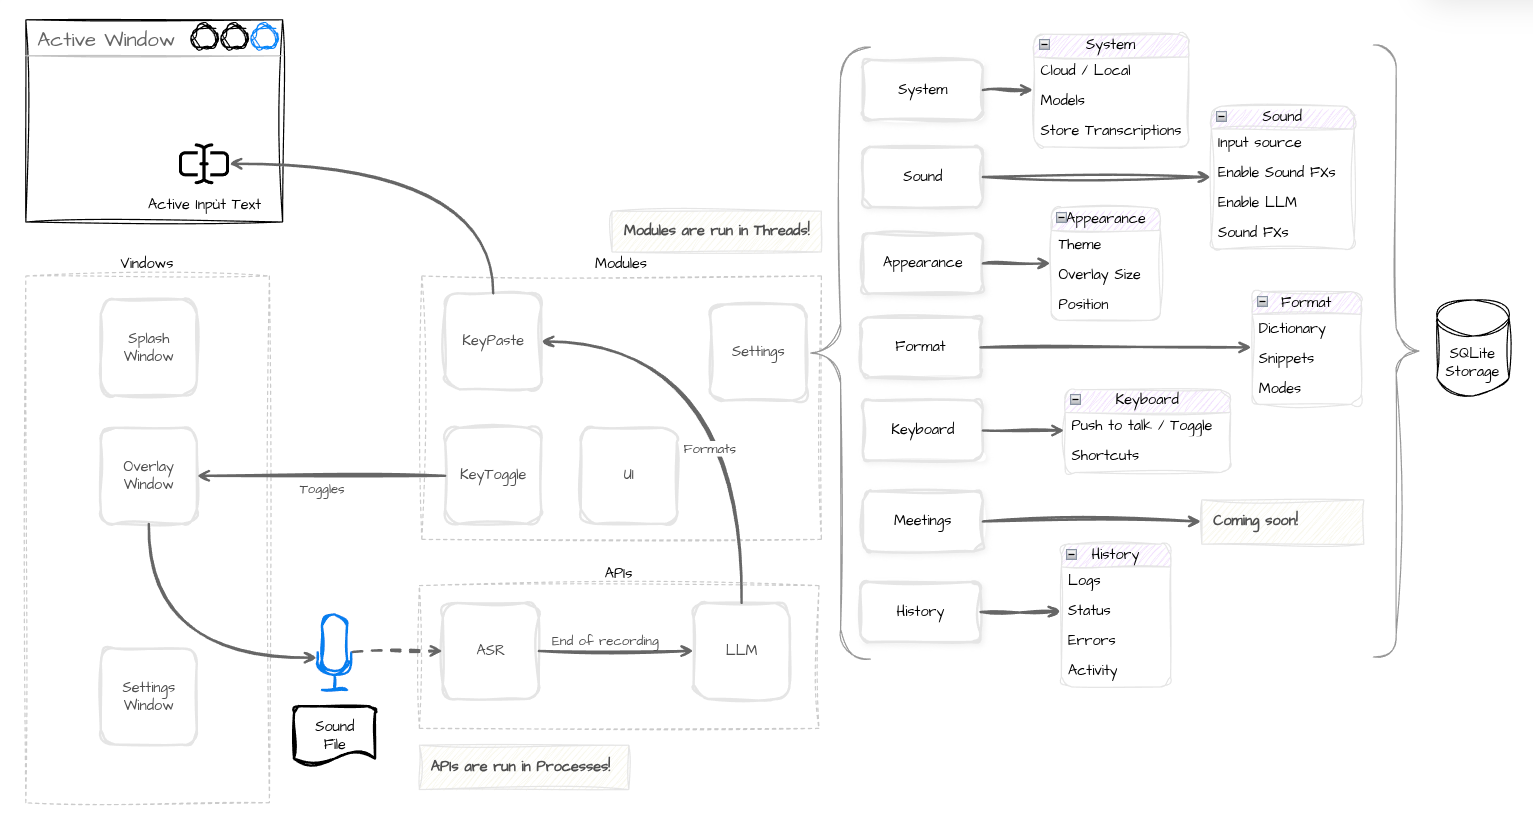
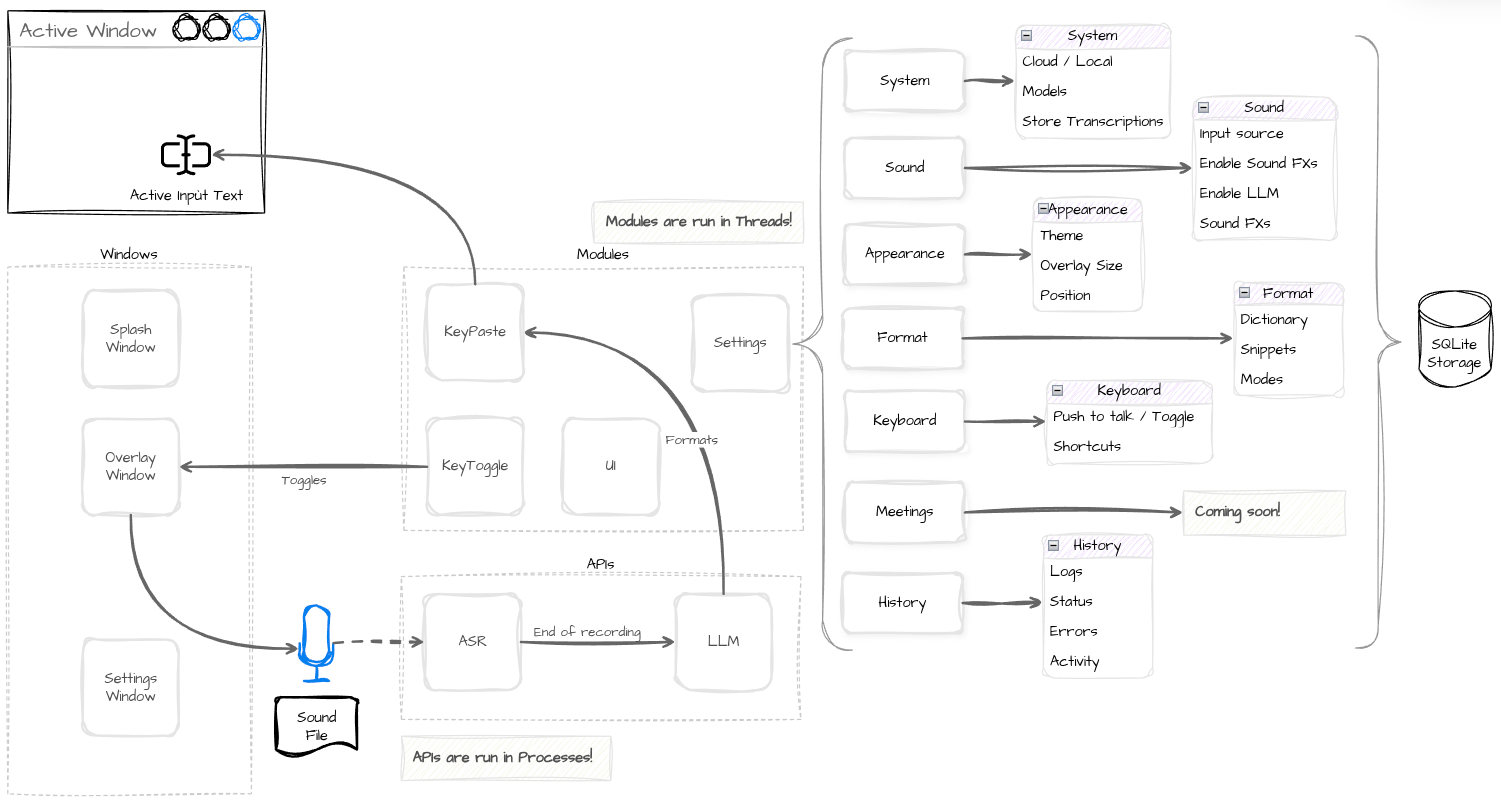
fix: update README.md according to current implementation

diff --git a/README.md b/README.md
@@ -6,135 +6,133 @@
   <img src="src/assets/icons/title.svg" alt="Gladys" height="72">
 </p>
 
+<p align="center">
+  <img src="https://img.shields.io/badge/license-GPLv3-blue" alt="License: GPLv3">
+  <img src="https://img.shields.io/badge/Qt-6.8%2B-41CD52" alt="Qt 6.8+">
+  <img src="https://img.shields.io/badge/C%2B%2B-17-00599C" alt="C++17">
+  <img src="https://img.shields.io/badge/platform-Linux%20%7C%20Windows%20%7C%20macOS-lightgrey" alt="Linux | Windows | macOS">
+</p>
+
 **Fully local, cross-platform dictation tool.**  
 Speak, and your words appear where you need them — no cloud, no API keys, no AI agent services.
 
-Gladys runs entirely on your machine using [sherpa-onnx](https://github.com/k2-fsa/sherpa-onnx) for speech-to-text and [llama.cpp](https://github.com/ggml-org/llama.cpp) for local transcription formatting. It works on **Windows** and **Linux** (Vulkan GPU support, any vendor). **macOS** is in progress.
+Gladys runs entirely on your machine using [sherpa-onnx](https://github.com/k2-fsa/sherpa-onnx) for speech-to-text and [llama.cpp](https://github.com/ggml-org/llama.cpp) for local transcription formatting. It runs on **Windows**, **Linux** and **macOS** (Vulkan GPU support on Windows and Linux, any vendor).
 
 ---
 
-## Supported platforms
+# Product
 
-| Platform | Architecture | Build host |
-|---|---|---|
-| Linux | x64 | Linux x86_64 |
-| Windows | x64 | Windows x86_64 |
-| macOS | arm64 | Apple Silicon (Intel host can build, cannot run) |
+### Features
 
----
-
-## Features
-
-| Feature | Description |
-|---|---|
-| 100% local | No remote API calls, no data leaves your machine |
-| Direct paste | Text is copied and pasted into the focused input (chat, search, editors) |
-| Global hotkey | Toggles recording on/off from any application |
-| Microphone selection | Choose the capture device in Settings |
-| Dictionary | Word replacements applied during formatting (e.g. `gladys` → `Gladys`) |
-| Style options | Markdown mode, allow accents, allow punctuation |
+| Feature              | Description                                                                          |
+| -------------------- | ------------------------------------------------------------------------------------ |
+| 100% local           | No remote API calls, no data leaves your machine                                     |
+| Direct paste         | Text is copied and pasted into the focused input                                     |
+| Global hotkey        | Toggle or Hold to record from any application. Profiles: `Ctrl+Alt+P`, `Fn`, `AltGr` |
+| Microphone selection | Choose the capture device in Settings                                                |
+| Dictionary           | Word replacements applied during formatting (e.g. `gladys` → `Gladys`)               |
+| Style options        | Markdown mode, allow accents, allow punctuation                                      |
 
 ---
 
-## How it works
+### Architecture
+
+![Architecture](src/assets/Architecture.png)
+
+---
+
+### Usage
 
 ```txt
- ┌──────────┐  hotkey  ┌───────────────┐  final text  ┌──────────────────┐
- │ Hotkey   │ ───────► │ STT           │ ───────────► │ LLM (llama-server)│
- │ toggle   │          │ miniaudio +   │              │ 127.0.0.1:26001  │
- └──────────┘          │ sherpa-onnx   │              └────────┬─────────┘
-                       └───────┬───────┘                       │ formatted text
-                               │ audio levels                  ▼
-                       ┌───────▼───────┐              ┌──────────────────┐
-                       │ Mic overlay   │              │ Paste            │
-                       │ (wave bars)   │              │ copy + Ctrl+Shift+V
-                       └───────────────┘              └──────────────────┘
+ Settings
+ ├── System      Store transcriptions
+ ├── Sound       Input source (microphone), sound effects
+ ├── Appearance  Theme, overlay size, position
+ ├── Format      Dictionary, snippets, modes, enable LLM
+ ├── Keyboard    Push to talk / toggle, shortcuts
+ └── History     Logs, status, errors, activity
 ```
 
-1. Press the hotkey — the mic overlay opens and audio is captured.
-2. Speech is buffered while recording and transcribed by sherpa-onnx on stop.
-3. On stop, the raw text is sent to the local `llama-server` for formatting (casing, punctuation, dictionary).
-4. The result is copied to the clipboard and pasted with `Ctrl+Shift+V` (plain text).
-
-If the LLM fails, the raw transcription is pasted, so no dictation is lost.
+1. Launch Gladys — a splash screen loads, then the tray icon appears.
+2. Press the hotkey (default `Ctrl+Alt+P`) to start recording.
+3. Speak; the overlay shows live audio levels.
+4. Press the hotkey again to stop. The formatted text is pasted automatically.
 
 ---
 
-## Hotkeys
+### Platform Security Notes
 
-| Platform | Toggle recording | Backend |
-|---|---|---|
-| Linux | `Ctrl+Alt+P` | X11 `XGrabKey` |
-| Windows | `Ctrl+Alt+P` | `SetWindowsHookEx` (low-level keyboard) |
-| macOS | `Ctrl+Option+P` | `CGEventTap` |
+Gladys listens to global keystrokes to detect the hotkey and injects keystrokes to paste. Both behaviours are similar to a keylogger, so this table lists exactly what is used under the hood.
 
----
+| Platform | Hotkey capture (keystrokes in)        | Paste injection (keystrokes out) | Clipboard                | Permissions                   |
+| -------- | ------------------------------------- | -------------------------------- | ------------------------ | ----------------------------- |
+| Linux    | evdev, reads `/dev/input/event*`      | `/dev/uinput` virtual keyboard   | `wl-copy` (wl-clipboard) | uinput access, `wl-clipboard` |
+| Windows  | `SetWindowsHookEx` (`WH_KEYBOARD_LL`) | `SendInput`                      | Qt `QClipboard`          | Run as Administrator          |
+| macOS    | `CGEventTap`                          | `CGEvent`                        | Qt `QClipboard`          | Accessibility permission      |
 
-## Platform notes
-
-| Platform | Clipboard | Paste backend | Extra setup |
-|---|---|---|---|
-| Linux | `wl-copy` | `/dev/uinput` virtual keyboard | `wl-clipboard`, uinput access |
-| Windows | Qt clipboard | `SendInput` | None |
-| macOS | Qt clipboard | `CGEvent` | Accessibility permission |
+- Audio is captured with [miniaudio](https://miniaud.io/) and transcribed locally. Nothing is sent over the network.
+- Transcription history is stored in plaintext in a local SQLite database (`history.db`).
+- Keystrokes are only used for the hotkey and the paste shortcut. Keystroke content is not logged.
 
 ---
 
-## Dependencies
-
-- [Qt 6.8+](https://www.qt.io/) — Core, Gui, Widgets, Network, Svg
-- [sherpa-onnx](https://github.com/k2-fsa/sherpa-onnx) — speech-to-text (bundled libs in `src/include/sherpa-onnx`)
-- [llama.cpp](https://github.com/ggml-org/llama.cpp) — local `llama-server` (fetched by script)
-- [miniaudio](https://miniaud.io/) — audio capture (single header, bundled)
-- [Vulkan](https://www.vulkan.org/) — GPU acceleration for llama.cpp (optional, recommended)
-- X11 development headers (Linux)
-- `wl-clipboard` (Linux runtime)
-
----
-
-## Models
-
-| Component | Model | Purpose |
-|---|---|---|
-| STT | `sherpa-onnx-nemo-parakeet-tdt-0.6b-v3-int8` | Multilingual offline speech recognition |
-| LLM | `Llama-3.2-1B-Instruct-Q4_K_M.gguf` | Transcription formatting |
-
----
-
-## Build from source
+# Build
 
 ### Prerequisites
 
-| Tool | Version |
-|---|---|
-| CMake | 3.21+ |
-| C++ compiler | C++17 |
-| Qt | 6.8+ |
+| Tool         | Version |
+| ------------ | ------- |
+| CMake        | 3.21+   |
+| C++ compiler | C++17   |
+| Qt           | 6.8+    |
 
-Install Qt with [aqt](https://github.com/miurahr/aqtinstall) (requires `pip install aqtinstall`):
+#### 1. Install aqtinstall
 
 ```bash
-scripts/qt-install.sh linux     # or: windows / macos
+pip install aqtinstall
+```
+
+#### 2. Install Qt
+
+```bash
+scripts/qt-install.sh                                    # host OS/arch (default)
+scripts/qt-install.sh --os linux --arch x64              # --os: linux | macos | windows
+                                                         # --arch: x64 | arm64
 ```
 
 Installs into the build space and prints the `QT_ROOT_DIR` export line.
 
-Linux only:
+#### 3. Install Linux packages (Linux only)
 
 ```bash
 # Debian/Ubuntu
 sudo apt install libx11-dev wl-clipboard
 ```
 
-### Build
+---
+
+### Build from source
+
+#### 1. Set QT_ROOT_DIR
+
+```bash
+export QT_ROOT_DIR=$HOME/gladys/qt-6.8.3/gcc_64         # Linux
+export QT_ROOT_DIR=$HOME/gladys/qt-6.8.3/macos          # macOS
+export QT_ROOT_DIR=$HOME/gladys/qt-6.8.3/msvc2022_64    # Windows (Git Bash)
+```
+
+#### 2. Clone, fetch dependencies and build
 
 ```bash
 git clone https://github.com/mjesbar/gladys.git
 cd gladys
 
-export QT_ROOT_DIR=$HOME/gladys/qt-6.8.3/gcc_64
-scripts/fetch-deps.sh
-scripts/build.sh
+scripts/fetch-deps.sh                                   # host OS/arch (default)
+scripts/fetch-deps.sh --os linux --arch x64             # --os: linux | macos | windows
+                                                        # --arch: x64 | arm64
+
+scripts/build.sh                                        # host OS/arch (default)
+scripts/build.sh --os linux --arch x64 --ma-debug off   # --ma-debug: on | off (miniaudio debug output)
 ```
 
 Build space (default `$HOME/gladys`, override with `GLADYS_SPACE`):
@@ -147,48 +145,47 @@ $GLADYS_SPACE/
 └── qt-6.8.3/   Qt install (QT_ROOT_DIR)
 ```
 
-### Run
+#### 3. Run
 
 ```bash
 $HOME/gladys/dist/gladys
 ```
 
-### Linux: enable paste (uinput)
+#### 4. Package
 
 ```bash
-scripts/linux/uinput.sh allow   # asks for root via pkexec
-# log out and back in
-scripts/linux/uinput.sh deny    # revoke
-```
-
-### Package
-
-```bash
-# Set QT_ROOT_DIR, then:
-scripts/package.sh linux x64 1.0.0   # or: windows x64 / macos arm64 1.0.0
+scripts/package.sh --version 1.0.0                      # host OS/arch (default)
+scripts/package.sh --os linux --arch x64 --version 1.0.0  # --os: linux | macos | windows
+                                                        # --arch: x64 | arm64
+                                                        # --version: release version (required)
 ```
 
 Artifacts land in `$GLADYS_SPACE/release/`.
 
----
-
-## Usage
-
-```txt
- Tray icon ──► Right-click ──► Settings
-                              ├── Input source (microphone)
-                              ├── Dictionary (from → to)
-                              └── Style: markdown / accents / punctuation
-```
-
-1. Launch Gladys — a splash screen loads the models, then the tray icon appears.
-2. Press `Ctrl+Alt+P` (`Ctrl+Option+P` on macOS) to start recording.
-3. Speak; the overlay shows live audio levels.
-4. Press the hotkey again to stop. The formatted text is pasted automatically.
+> [!WARNING]
+> **Linux: enable paste (uinput)**
+>
+> ```bash
+> scripts/linux/uinput.sh allow   # allow: grant /dev/uinput access (asks for root via pkexec)
+> # log out and back in
+> scripts/linux/uinput.sh deny    # deny: revoke /dev/uinput access
+> ```
 
 ---
 
-## Project structure
+### Dependencies
+
+- [Qt 6.8+](https://www.qt.io/) — Core, Gui, Qml, Quick, QuickControls2, Widgets, Network, Svg, HttpServer, Sql
+- [sherpa-onnx](https://github.com/k2-fsa/sherpa-onnx) — speech-to-text, bundled libs in `src/include/sherpa-onnx`
+- [llama.cpp](https://github.com/ggml-org/llama.cpp) — local `llama-server` (fetched by `scripts/fetch-deps.sh`)
+- [miniaudio](https://miniaud.io/) — audio capture (single header, bundled in `src/include/miniaudio`)
+- [Vulkan](https://www.vulkan.org/) — GPU acceleration for llama.cpp on Windows and Linux (optional, recommended)
+- X11 development headers (Linux build)
+- `wl-clipboard` (Linux runtime)
+
+---
+
+### Project structure
 
 ```txt
 gladys/
@@ -205,33 +202,45 @@ gladys/
 │   └── windows/README.md
 └── src/
     ├── main.cc              # entry point, wires modules, shutdown
-    ├── assets/              # fonts, icons, QSS theme
+    ├── core.cc/.hpp         # pipeline: hotkey -> ASR -> LLM -> clipboard -> paste
+    ├── assets/              # fonts, icons, keyboard, overlay, sfx, QSS/QML theme
     ├── include/             # miniaudio, sherpa-onnx headers + libs
-    └── modules/
-        ├── ai/              # stt (sherpa-onnx), llm (llama-server)
-        ├── key/             # toggle (hotkey), paste (keystrokes)
-        ├── log/             # per-module Qt logging categories
-        ├── setting/         # persistent preferences (QSettings)
-        └── ui/              # app_window, mic, splash, setting_window
+    ├── apis/
+    │   ├── asr/             # gladys-asr process: stt (sherpa-onnx), HTTP server
+    │   ├── llm/             # llama-server launch, prompt, chat request
+    │   └── server.hpp       # ports and endpoints
+    ├── modules/
+    │   ├── audio/           # levels, sfx
+    │   ├── data/            # SQLite owner (history.db)
+    │   ├── keypaste/        # paste: uinput / CGEvent / SendInput
+    │   ├── keytoggle/       # toggle: evdev / CGEventTap / SetWindowsHookEx
+    │   ├── log/             # per-module Qt logging categories
+    │   ├── settings/        # persistent preferences per menu
+    │   └── ui/              # tray, overlay, settings window, history, waves
+    └── qml/
+        ├── Theme.qml
+        ├── components/      # ui/ kit, settings/ pages, mic widgets
+        └── windows/         # Overlay, Splash, Settings, StorageError
 ```
 
 ---
 
-## License
+# License
 
 [GNU General Public License v3.0](LICENSE)
 
 ---
 
-## Acknowledgements
+# Acknowledgements
 
 - [llama.cpp](https://github.com/ggml-org/llama.cpp) — local LLM inference
 - [sherpa-onnx](https://github.com/k2-fsa/sherpa-onnx) — speech-to-text engine
 - [miniaudio](https://miniaud.io/) — audio capture library
+- [Kompute](https://github.com/KomputeProject/kompute) — Vulkan compute
 
 ---
 
-## Contributing
+# Contributing
 
 Contributions, issues, and feature requests are welcome.  
 Open an [issue](https://github.com/mjesbar/gladys/issues) or submit a pull request.
